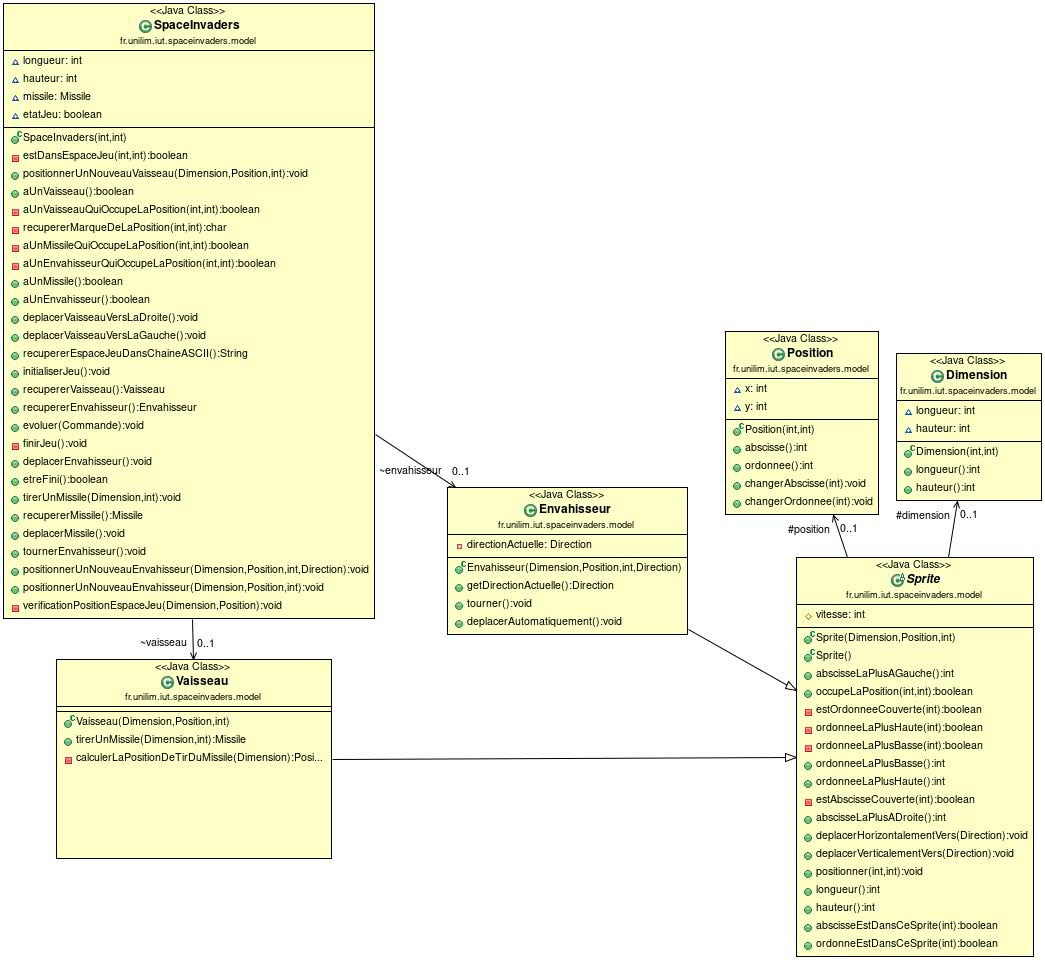
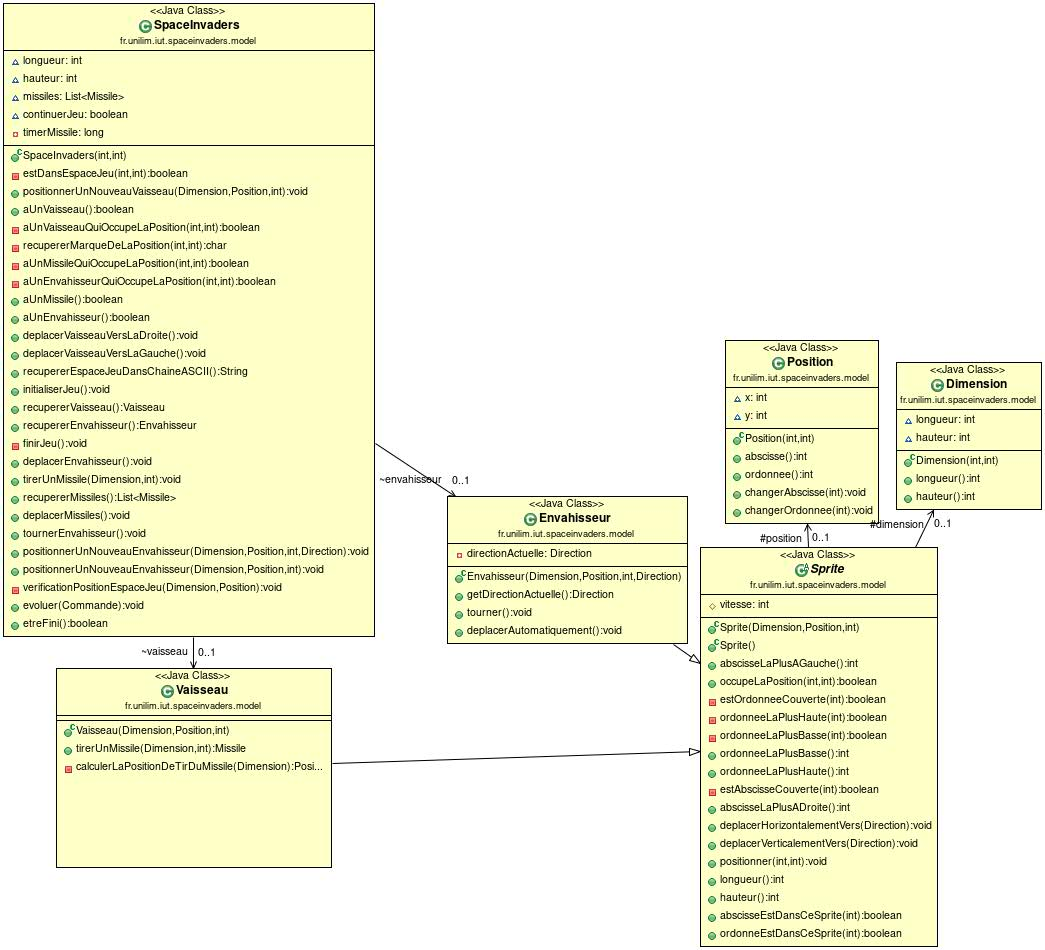
Ajout du temps entre deux tirs de missiles, fonctionnel

diff --git a/src/main/java/fr/unilim/iut/spaceinvaders/model/SpaceInvaders.java b/src/main/java/fr/unilim/iut/spaceinvaders/model/SpaceInvaders.java
@@ -17,6 +17,10 @@ public class SpaceInvaders implements Jeu {
 	List<Missile> missiles;
 	Envahisseur envahisseur;
 	boolean continuerJeu = true;
+	/**
+	 * Permet de savoir à quelle moment le dernier missile à été tiré
+	 */
+	private long timerMissile = 0;
 
 	public SpaceInvaders(int longueur, int hauteur) {
 		this.longueur = longueur;
@@ -135,6 +139,8 @@ public class SpaceInvaders implements Jeu {
 	}
 
 	private void finirJeu() {
+		this.envahisseur = null;
+		this.missiles = null;
 		this.continuerJeu = false;
 	}
 
@@ -159,10 +165,11 @@ public class SpaceInvaders implements Jeu {
 					"Pas assez de hauteur libre entre le vaisseau et le haut de l'espace jeu pour tirer le missile");
 		}
 
-		missiles.add(this.vaisseau.tirerUnMissile(dimensionMissile, vitesseMissile));
+		if (System.currentTimeMillis() > this.timerMissile + 500) {
+			missiles.add(this.vaisseau.tirerUnMissile(dimensionMissile, vitesseMissile));
+			this.timerMissile = System.currentTimeMillis();
+		}
 	}
-
-	
 
 	public List<Missile> recupererMissiles() {
 		return this.missiles;
@@ -223,38 +230,44 @@ public class SpaceInvaders implements Jeu {
 
 	@Override
 	public void evoluer(Commande commandeUser) {
-		if (null != commandeUser) {
-			if (commandeUser.droite) {
-				this.deplacerVaisseauVersLaDroite();
+		if (this.continuerJeu) {
+			if (null != commandeUser) {
+				if (commandeUser.droite) {
+					this.deplacerVaisseauVersLaDroite();
+				}
+
+				if (commandeUser.gauche) {
+					this.deplacerVaisseauVersLaGauche();
+				}
+
+				if (commandeUser.tir) {
+					if (System.currentTimeMillis() > this.timerMissile + 500) {
+						this.tirerUnMissile(new Dimension(Constante.MISSILE_LONGUEUR, Constante.MISSILE_HAUTEUR),
+								Constante.MISSILE_VITESSE);
+						this.timerMissile = System.currentTimeMillis();
+					}
+				}
 			}
 
-			if (commandeUser.gauche) {
-				this.deplacerVaisseauVersLaGauche();
+			if (this.aUnMissile()) {
+				this.deplacerMissiles();
 			}
 
-			if (commandeUser.tir) {
-
-				this.tirerUnMissile(new Dimension(Constante.MISSILE_LONGUEUR, Constante.MISSILE_HAUTEUR),
-						Constante.MISSILE_VITESSE);
-
+			if (this.aUnEnvahisseur()) {
+				this.deplacerEnvahisseur();
 			}
-		}
 
-		if (this.aUnMissile()) {
-			this.deplacerMissiles();
-		}
-
-		if (this.aUnEnvahisseur()) {
-			this.deplacerEnvahisseur();
-		}
-
-		if (this.aUnEnvahisseur() && this.aUnMissile()) {
-			for (int i = 0; i < missiles.size(); i++) {
-				if (Collision.detecterCollision(missiles.get(i), envahisseur)) {
-					finirJeu();
+			if (this.aUnEnvahisseur() && this.aUnMissile()) {
+				int i = 0;
+				while (this.continuerJeu && i < missiles.size()) {
+					if (Collision.detecterCollision(missiles.get(i), envahisseur)) {
+						finirJeu();
+					}
+					i++;
 				}
 			}
 		}
+
 	}
 
 //	private boolean aUnMissileEnBasDeLEcran() {

diff --git a/src/test/java/fr/unilim/iut/spaceinvaders/SpaceInvadersTest.java b/src/test/java/fr/unilim/iut/spaceinvaders/SpaceInvadersTest.java
@@ -378,6 +378,11 @@ public class SpaceInvadersTest {
 
 		spaceinvaders.deplacerMissiles();
 		spaceinvaders.deplacerMissiles();
+		try {
+			Thread.sleep(600);
+		} catch (InterruptedException e) {
+			System.err.println("test_LeJeuPeutContenirDeuxMissiles : Le Sleep n'a pas fonctionné");
+		}
 		spaceinvaders.tirerUnMissile(new Dimension(3,2),2);
 
 		   
@@ -407,10 +412,10 @@ public class SpaceInvadersTest {
 			       "...............\n" +
 			       "...............\n" + 
 			       "...............\n" + 
-			       "...............\n" + 
-			       "...............\n" + 
 			       ".......MMM.....\n" + 
 			       ".......MMM.....\n" + 
+			       "...............\n" + 
+			       "...............\n" + 
 			       ".....VVVVVVV...\n" + 
 			       ".....VVVVVVV...\n" , spaceinvaders.recupererEspaceJeuDansChaineASCII());
 	}

diff --git a/src/main/java/fr/unilim/iut/spaceinvaders/moteurjeu/Controleur.java b/src/main/java/fr/unilim/iut/spaceinvaders/moteurjeu/Controleur.java
@@ -20,7 +20,6 @@ public class Controleur implements KeyListener {
 	 * qu'on veut memoriser une touche appuyee
 	 */
 	private Commande commandeARetourner;
-	private long timerMissile = 0;
 
 	/**
 	 * construction du controleur par defaut le controleur n'a pas de commande
@@ -69,12 +68,8 @@ public class Controleur implements KeyListener {
 			this.commandeARetourner.bas = true;
 			break;
 		case KeyEvent.VK_SPACE:
-			if (System.currentTimeMillis() > this.timerMissile + 500) {
-				this.commandeEnCours.tir = true;
-				this.commandeARetourner.tir = true;
-				this.timerMissile = System.currentTimeMillis();
-			}
-
+			this.commandeEnCours.tir = true;
+			this.commandeARetourner.tir = true;
 			break;
 		default:
 			break;

diff --git a/README.md b/README.md
@@ -1,4 +1,16 @@
 # Dépot du projet spaceinvaders
 Ceci est mon dépot du projet Space Invaders du module M2104 (Base de la COO) de ma première année de DUT Informatique à Limoges.
 
-L'étape où j'en suis actuellement est notée dans le fichier Avancement.md
+# Semaine du 29/04 au 05/05
+
+## Description du travail effectué
+
+J'avais déjà au préalable avancé jusqu'à la fonctionnalité 8 (tirer plusieurs missiles). Il me manquait un moyen de contrôler le temps entre l'apparition de deux missiles. Au début, j'ai tenté de créer une méthode afin de détecter tout missile dans les xx% au bas de l'écran, et ainsi attendre qu'elle renvoie "false" avant de tirer de nouveau.
+
+Devant les problèmes survenus, j'ai donc décidé de plutôt me rediriger vers un contrôle de temps entre deux appuis sur la touche "espace", or, le problème est que ce "contrôle" ne s'effectue pas en cas de maintien de la touche. De plus, ce controle étant effectué via le contrôleur, je ne vois pas vraiment comment effectuer un test unitaire (que j'avais pourtant préparé en TDD pour l'autre méthode).
+
+Finalement, j'y suis parvenu en mettant le timer dans la méthode tirerMissile de la classe SpaceInvaders, en TDD évidement (car le test est devenu possible).
+
+## Diagramme de classes
+
+## Nuage de mots
